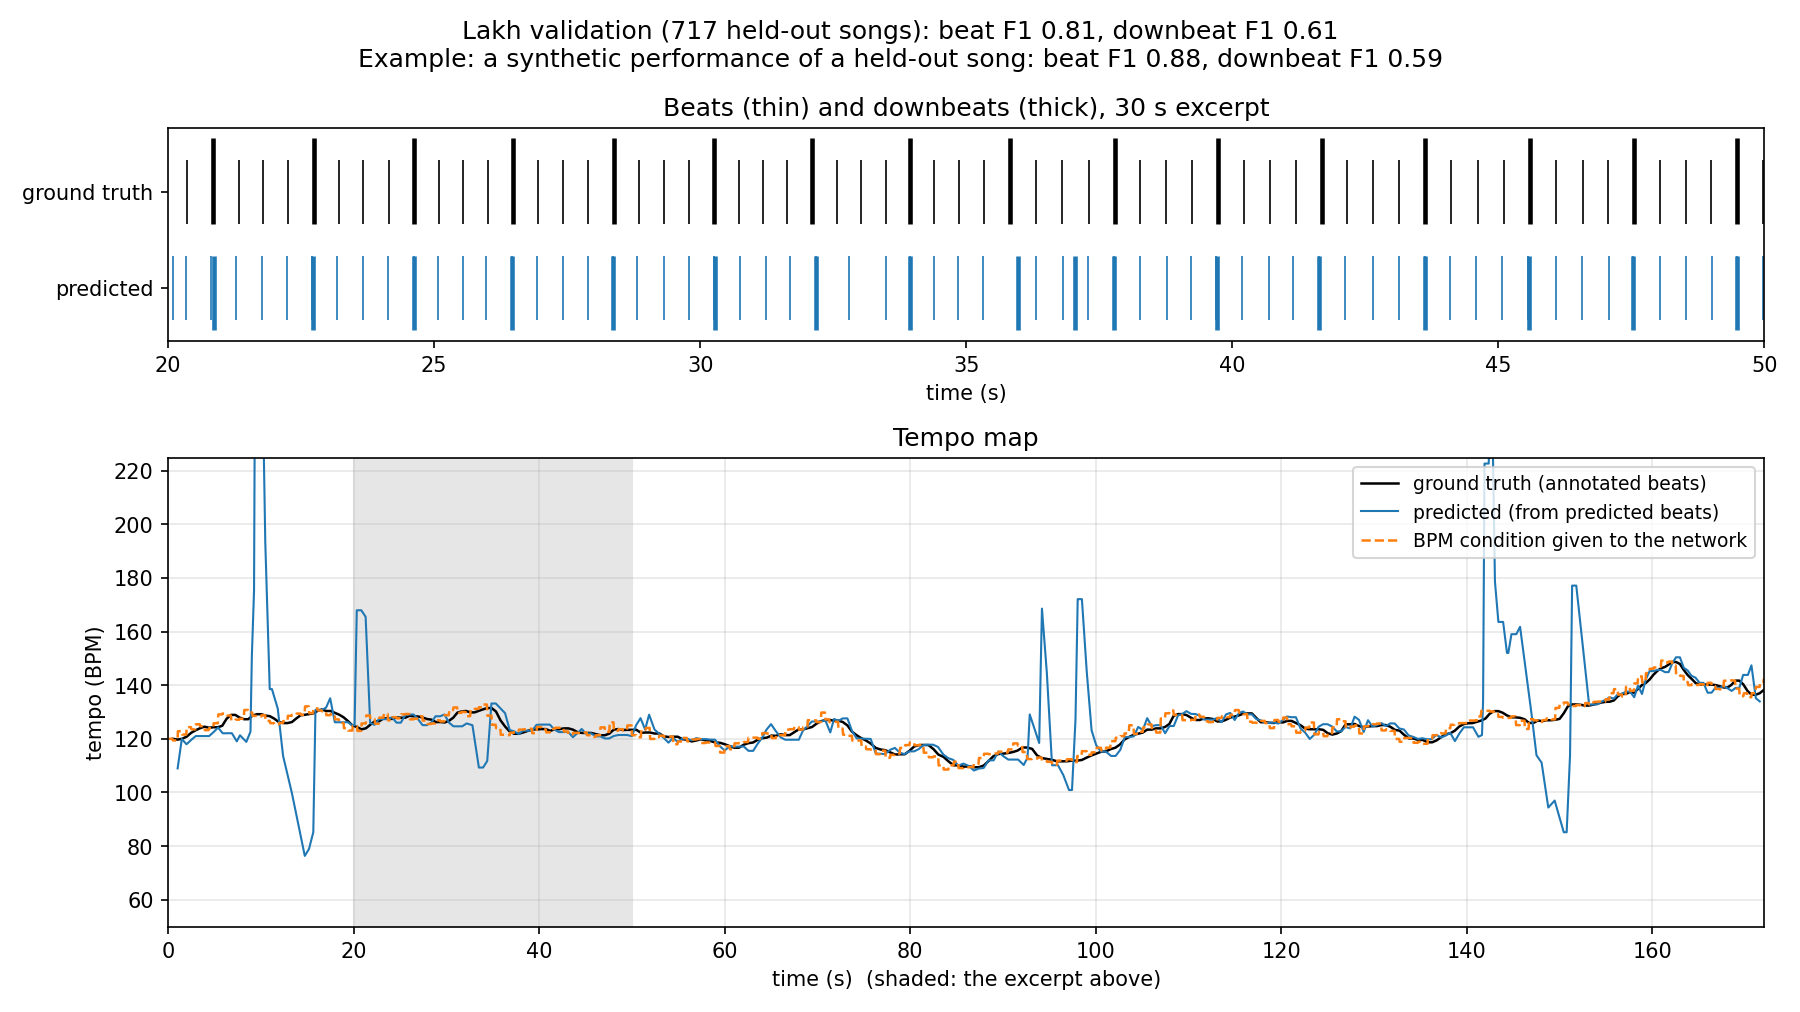
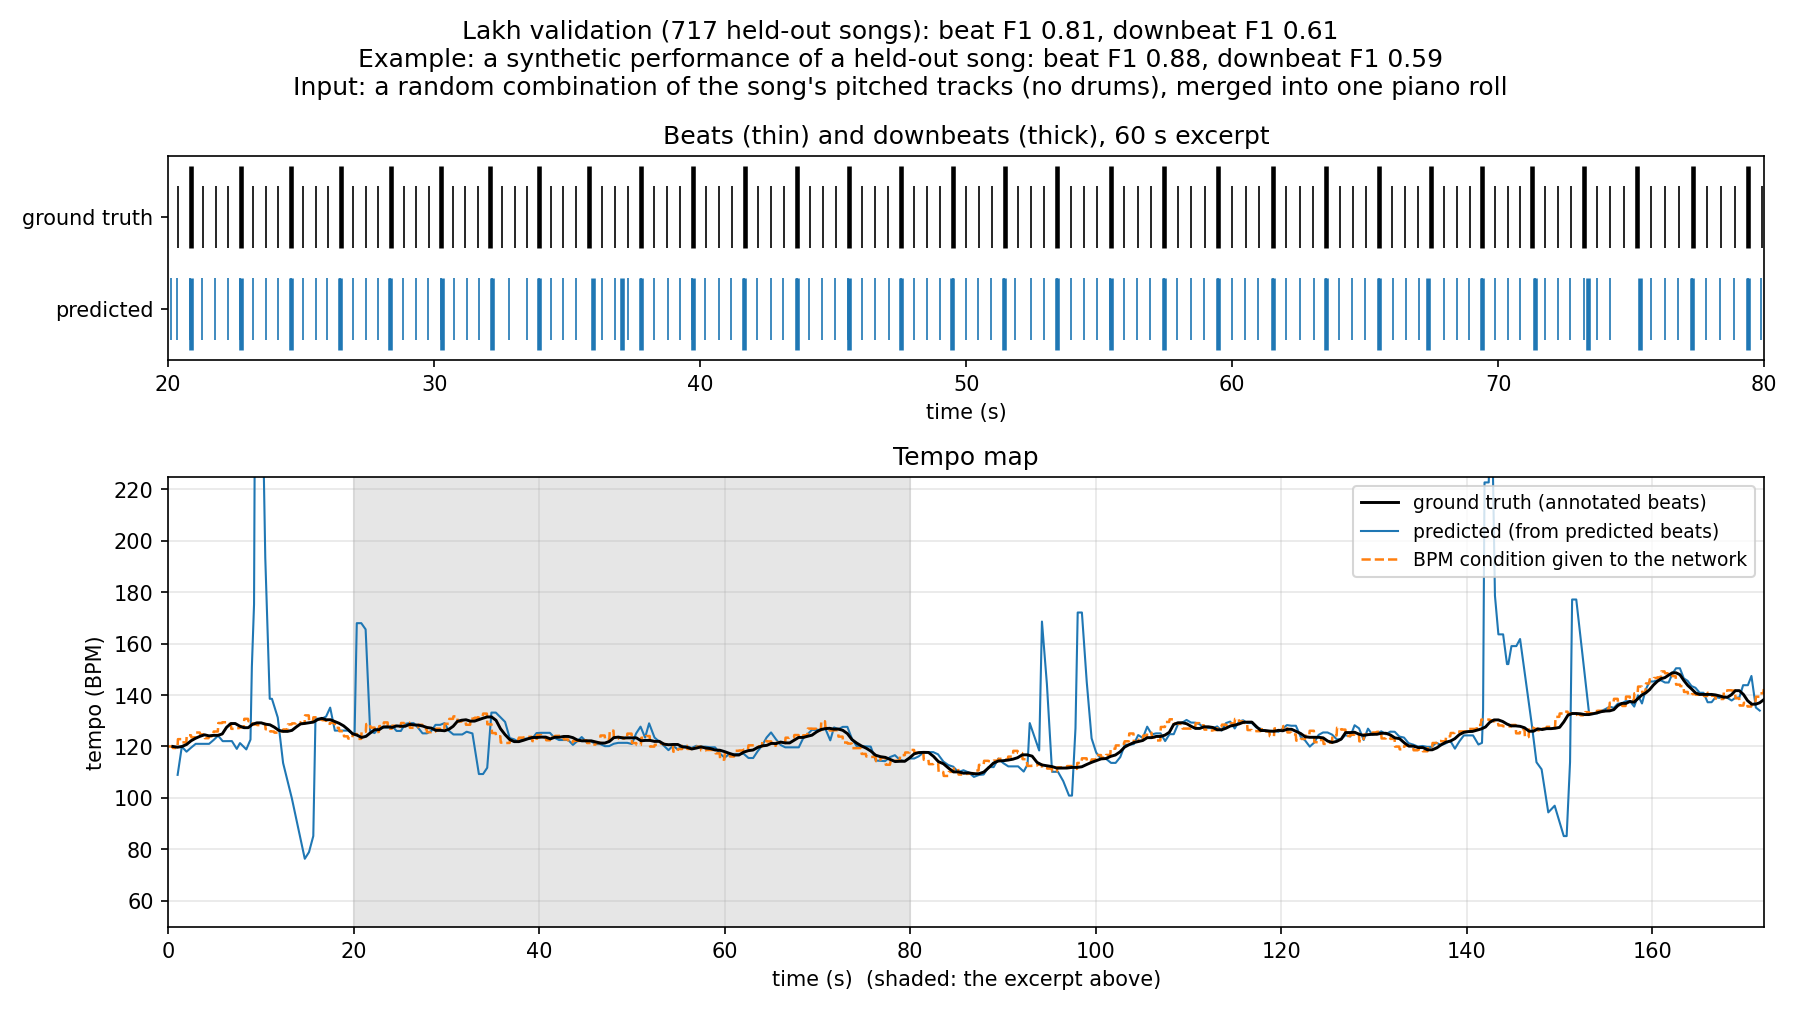
Slide figures: 60 s excerpts, input stated, SAMBA example Bernie's Tune
The SAMBA example is now a steady live swing take (Bernie's Tune,
alternate; closest to the live-take median) instead of the ballad Misty.

diff --git a/experiments/yamaha_timing/report_figures.py b/experiments/yamaha_timing/report_figures.py
@@ -55,7 +55,7 @@ def tempo_curve(beats, smooth=4):
     return beats[1:], bpm
 
 
-def figure(example, title, subtitle, path, rate, excerpt=(20.0, 50.0)):
+def figure(example, title, subtitle, path, rate, excerpt=(20.0, 80.0), source=""):
     """Plain matplotlib: true vs predicted beats over an excerpt, and the tempo map."""
     import matplotlib
     matplotlib.use("Agg")
@@ -76,11 +76,11 @@ def figure(example, title, subtitle, path, rate, excerpt=(20.0, 50.0)):
     top.set_ylim(0, 1)
     top.set_xlim(t0, t1)
     top.set_xlabel("time (s)")
-    top.set_title("Beats (thin) and downbeats (thick), 30 s excerpt")
+    top.set_title("Beats (thin) and downbeats (thick), 60 s excerpt")
 
     tt, bt = tempo_curve(np.asarray(example["true_beats"]))
     tp, bp = tempo_curve(np.asarray(example["pred_beats"]))
-    bottom.plot(tt, bt, color="k", lw=1.2, label="ground truth (annotated beats)")
+    bottom.plot(tt, bt, color="k", lw=1.4, zorder=3, label="ground truth (annotated beats)")
     bottom.plot(tp, bp, color="C0", lw=1.0, label="predicted (from predicted beats)")
     if example.get("bpm_condition") is not None:
         condition = np.asarray(example["bpm_condition"], dtype=float)
@@ -98,7 +98,7 @@ def figure(example, title, subtitle, path, rate, excerpt=(20.0, 50.0)):
 
     s = example["scores"]
     fig.suptitle(f"{title}\nExample: {subtitle}: beat F1 {s['beat']['f_measure']:.2f}, "
-                 f"downbeat F1 {s['downbeat']['f_measure']:.2f}", fontsize=12)
+                 f"downbeat F1 {s['downbeat']['f_measure']:.2f}\nInput: {source}", fontsize=12)
     fig.tight_layout()
     fig.savefig(path)
     plt.close(fig)
@@ -109,9 +109,9 @@ def main():
     parser.add_argument("--checkpoint", type=Path, required=True)
     parser.add_argument("--lakh", type=Path, default=Path("data/lakh_v2"))
     parser.add_argument("--samba", type=Path, required=True)
-    parser.add_argument("--samba-take", default="65-misty/alternate")
+    parser.add_argument("--samba-take", default="52-bernies_tune/alternate")
     parser.add_argument("--asap-label", default="Haydn, Keyboard Sonata Hob. XVI:32, mvt. 1")
-    parser.add_argument("--samba-label", default="Misty, alternate take (live band)")
+    parser.add_argument("--samba-label", default="Bernie's Tune, alternate take (live band, steady swing)")
     parser.add_argument("--asap", type=Path, required=True)
     parser.add_argument("--lakh-songs", type=int, default=80, help="validation songs scanned for a median one")
     parser.add_argument("--out", type=Path, default=Path("report_figures"))
@@ -130,21 +130,25 @@ def main():
     index, ex = min(examples, key=lambda p: abs(p[1]["scores"]["beat"]["f_measure"] - mb)
                     + abs(p[1]["scores"]["downbeat"]["f_measure"] - md))
     figure(ex, "Lakh validation (717 held-out songs): beat F1 0.81, downbeat F1 0.61",
-           "a synthetic performance of a held-out song", args.out / "1_lakh_validation.png", rate)
+           "a synthetic performance of a held-out song", args.out / "1_lakh_validation.png", rate,
+           source="a random combination of the song's pitched tracks (no drums), merged into one piano roll")
     print("lakh song", pack.ids[index] if hasattr(pack, "ids") else index, ex["scores"]["beat"]["f_measure"],
           ex["scores"]["downbeat"]["f_measure"])
 
     max_note = SynthesisConfig().max_note_seconds
-    for name, takes, wanted, title, subtitle, path in (
+    for name, takes, wanted, title, source, path in (
             ("asap", asap_takes(args.asap), args.asap_label,
-             "ASAP (1,067 classical piano performances): beat F1 0.58, downbeat F1 0.25", None, "2_asap.png"),
+             "ASAP (1,067 classical piano performances): beat F1 0.58, downbeat F1 0.25",
+             "solo piano performance MIDI", "2_asap.png"),
             ("samba", [t for t in samba_takes(args.samba) if t.name == args.samba_take], args.samba_label,
-             "JazzSAMBA (152 jazz piano takes): beat F1 0.52, downbeat F1 0.33", None, "3_samba.png")):
+             "JazzSAMBA (152 jazz piano takes): beat F1 0.52, downbeat F1 0.33",
+             "the piano part only (recorded piano MIDI); the rest of the band is not given to the model",
+             "3_samba.png")):
         take = takes[0]
         _, example = run_take(model, take, take.bpm, torch.device("cpu"), max_note)
         rows = int(np.ceil(take.span[1] * rate)) + 1
         example["bpm_condition"] = np.full(rows, take.bpm)
-        figure(example, title, wanted, args.out / path, rate)
+        figure(example, title, wanted, args.out / path, rate, source=source)
         print(name, take.name, example["scores"]["beat"]["f_measure"], example["scores"]["downbeat"]["f_measure"])
 
 
